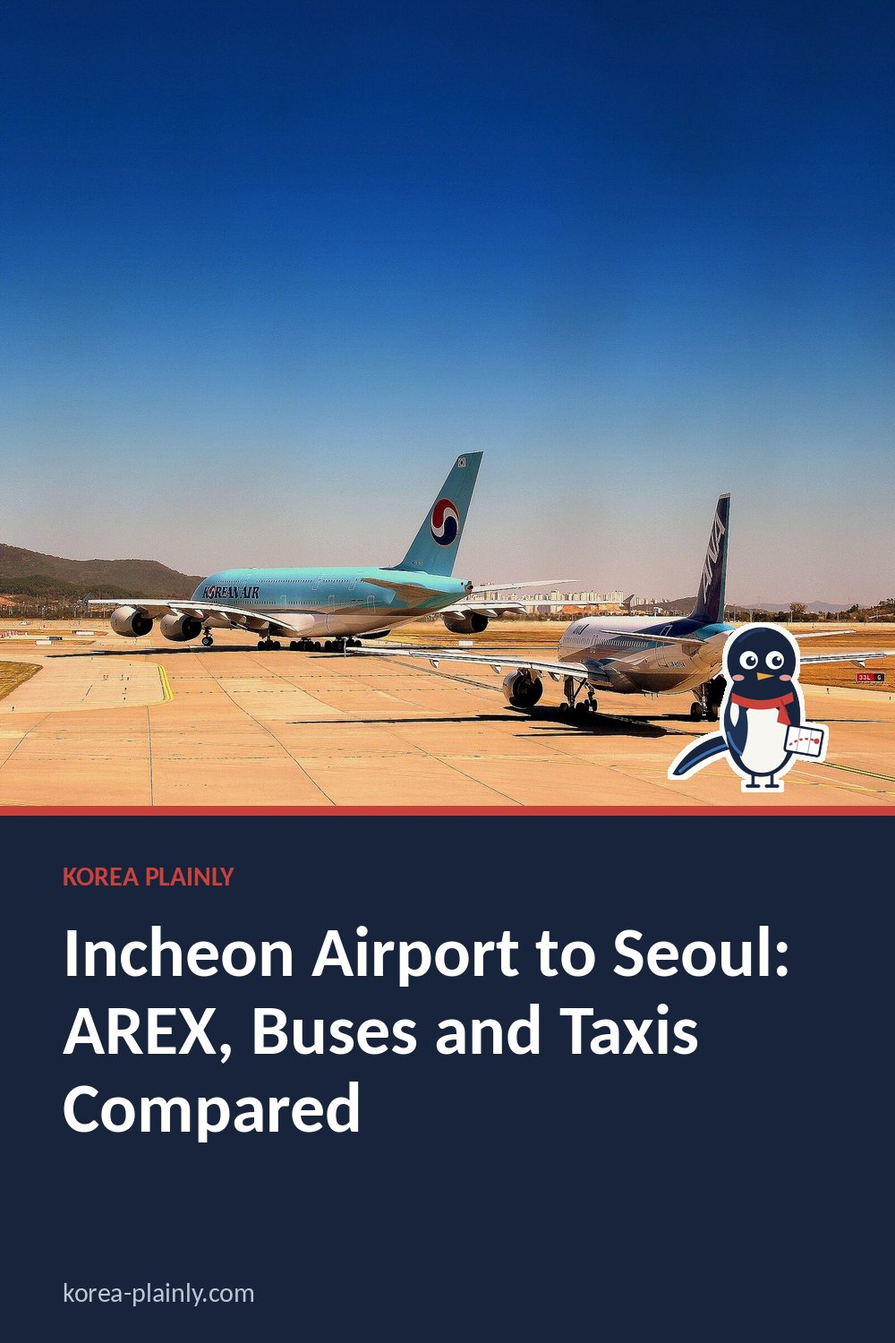
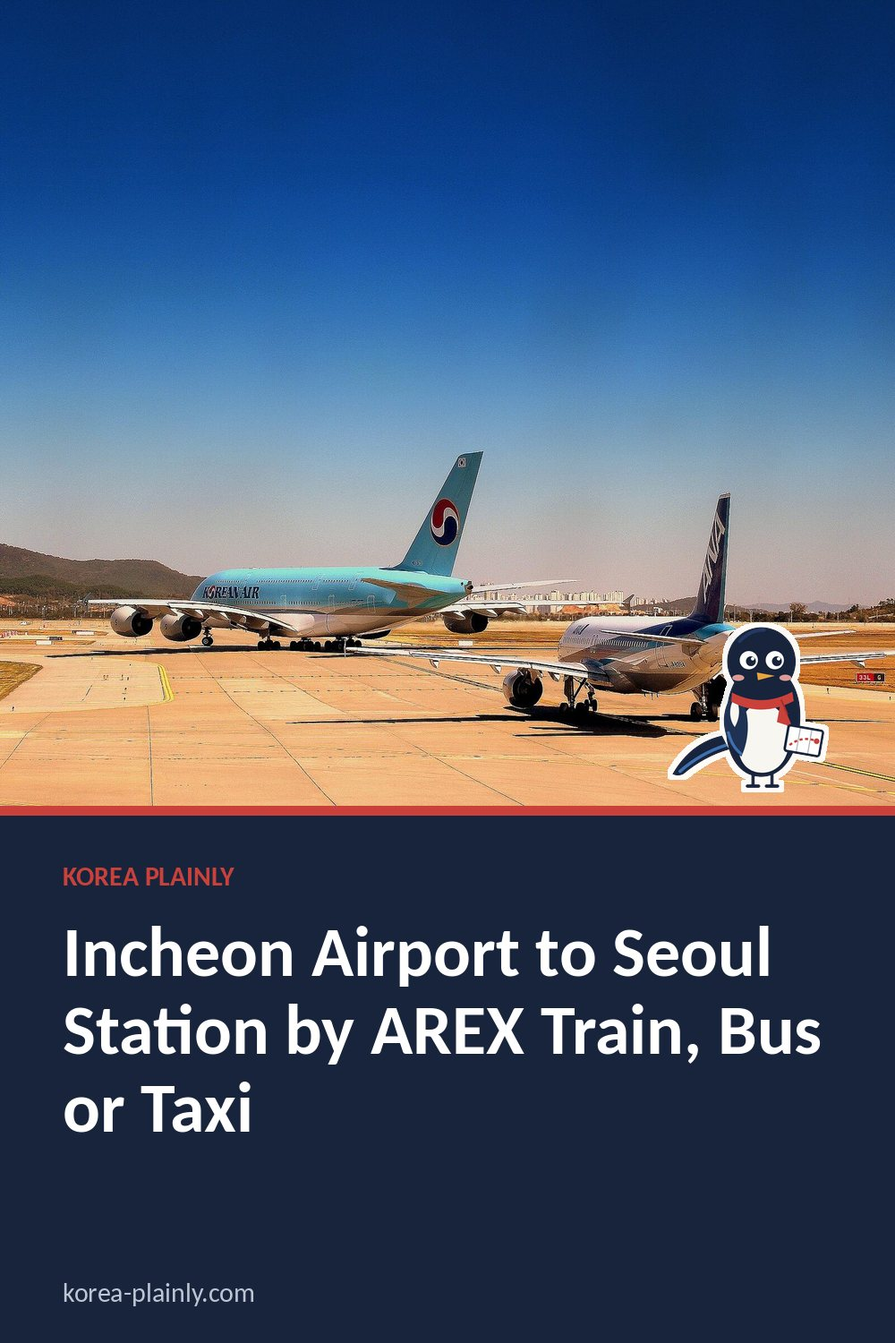
Incheon airport guide: retitle for 'incheon airport to seoul station' and rewrite with AREX Express vs All-Stop times, fares and stops; retry Busan cover photo; queue Discover Seoul Pass topic
Claude-Session: https://claude.ai/code/session_01RTe69ysQjvUUjkYMb41Tht

Changed region(s): [[0.062, 0.736, 0.775, 0.8587], [0.806, 0.7053, 0.93, 0.7973]]

diff --git a/incheon-airport-to-seoul.html b/incheon-airport-to-seoul.html
@@ -11,11 +11,11 @@
 >
 
 <link rel="stylesheet" href="style.css?v=20261015-1">
-<title>Incheon Airport to Seoul: AREX, Buses and Taxis Compared</title>
+<title>Incheon Airport to Seoul Station by AREX Train, Bus or Taxi</title>
 
 <meta
   name="description"
-  content="Compare the AREX train, airport limousine buses and taxis from Incheon Airport to Seoul, with practical tips for choosing the best option."
+  content="Incheon Airport to Seoul Station and your hotel: AREX Express vs All-Stop train, airport buses and taxis, with 2026 fares and journey times."
 >
 <link
   rel="canonical"
@@ -29,12 +29,12 @@
 
 <meta
   property="og:title"
-  content="Incheon Airport to Seoul: AREX, Buses and Taxis Compared"
+  content="Incheon Airport to Seoul Station by AREX Train, Bus or Taxi"
 >
 
 <meta
   property="og:description"
-  content="Compare the AREX train, airport limousine buses and taxis from Incheon Airport to Seoul, with practical tips for choosing the best option."
+  content="Incheon Airport to Seoul Station and your hotel: AREX Express vs All-Stop train, airport buses and taxis, with 2026 fares and journey times."
 >
 
 <meta
@@ -59,12 +59,12 @@
 
 <meta
   name="twitter:title"
-  content="Incheon Airport to Seoul: AREX, Buses and Taxis Compared"
+  content="Incheon Airport to Seoul Station by AREX Train, Bus or Taxi"
 >
 
 <meta
   name="twitter:description"
-  content="Compare the AREX train, airport limousine buses and taxis from Incheon Airport to Seoul, with practical tips for choosing the best option."
+  content="Incheon Airport to Seoul Station and your hotel: AREX Express vs All-Stop train, airport buses and taxis, with 2026 fares and journey times."
 >
 
 <meta
@@ -247,9 +247,9 @@ footer {
 <link rel="stylesheet" href="article.css?v=3">
 <link rel="stylesheet" href="https://fonts.googleapis.com/css2?family=DM+Sans:wght@400;500;600;700&family=Playfair+Display:ital,wght@0,600;1,600&display=swap">
 <link rel="icon" href="/favicon.svg" type="image/svg+xml">
-<script type="application/ld+json" id="kp-faq-ld">{"@context": "https://schema.org", "@type": "FAQPage", "mainEntity": [{"@type": "Question", "name": "Which option is best if I want to avoid traffic?", "acceptedAnswer": {"@type": "Answer", "text": "The AREX is a good choice if your destination is convenient to one of its stations, because the train does not get caught in road traffic. You may still need another train, bus, or taxi to reach your accommodation. Check the station locations and transfers before choosing."}}, {"@type": "Question", "name": "When might an airport bus be more convenient than the AREX?", "acceptedAnswer": {"@type": "Answer", "text": "A bus may suit you better if it stops near your hotel or neighborhood and you want to avoid changing trains with your luggage. Its journey uses the roads, however, so travel time can vary with traffic. Check the route and stop locations against your destination."}}, {"@type": "Question", "name": "Is taking a taxi from Incheon Airport a good idea?", "acceptedAnswer": {"@type": "Answer", "text": "A taxi can be convenient if you have several bags, are traveling with others, or need a direct ride to your accommodation. It costs more than public transport, and the trip can take longer when roads are busy. Confirm your destination before setting off."}}]}</script>
-<script type="application/ld+json" id="kp-article-ld">{"@context": "https://schema.org", "@type": "Article", "headline": "Incheon Airport to Seoul: AREX, Buses and Taxis Compared", "description": "Compare the AREX train, airport limousine buses and taxis from Incheon Airport to Seoul, with practical tips for choosing the best option.", "image": ["https://korea-plainly.com/photo-incheon-airport-to-seoul.jpg"], "datePublished": "2026-10-13", "dateModified": "2026-10-13", "author": {"@type": "Person", "name": "Jungsuk Kim", "url": "https://korea-plainly.com/about.html#author"}, "publisher": {"@type": "Organization", "name": "Korea Plainly", "url": "https://korea-plainly.com/"}, "mainEntityOfPage": "https://korea-plainly.com/incheon-airport-to-seoul.html"}</script>
-<script type="application/ld+json" id="kp-breadcrumb-ld">{"@context": "https://schema.org", "@type": "BreadcrumbList", "itemListElement": [{"@type": "ListItem", "position": 1, "name": "Home", "item": "https://korea-plainly.com/"}, {"@type": "ListItem", "position": 2, "name": "Guides", "item": "https://korea-plainly.com/guides.html"}, {"@type": "ListItem", "position": 3, "name": "Transport", "item": "https://korea-plainly.com/guides.html?category=transport"}, {"@type": "ListItem", "position": 4, "name": "Incheon Airport to Seoul: AREX, Buses and Taxis Compared", "item": "https://korea-plainly.com/incheon-airport-to-seoul.html"}]}</script>
+<script type="application/ld+json" id="kp-faq-ld">{"@context": "https://schema.org", "@type": "FAQPage", "mainEntity": [{"@type": "Question", "name": "How long does it take from Incheon Airport to Seoul Station?", "acceptedAnswer": {"@type": "Answer", "text": "About 43 minutes by AREX Express Train from Terminal 1 and about 51 minutes from Terminal 2. The All-Stop Train takes about an hour from Terminal 1, a little more from Terminal 2."}}, {"@type": "Question", "name": "Can I use a T-money card on the AREX train?", "acceptedAnswer": {"@type": "Answer", "text": "Yes on the All-Stop Train, where you tap in at the normal gates. The Express Train needs its own ticket from the machines or counter, although you can pay for it with cash or a card."}}, {"@type": "Question", "name": "Is the Express Train worth the extra cost?", "acceptedAnswer": {"@type": "Answer", "text": "It is if you are staying near Seoul Station or want a guaranteed seat for your luggage. If your hotel is near Hongdae, Gongdeok or Gimpo Airport stations, the All-Stop Train is cheaper and gets you there without a transfer."}}]}</script>
+<script type="application/ld+json" id="kp-article-ld">{"@context": "https://schema.org", "@type": "Article", "headline": "Incheon Airport to Seoul Station by AREX Train, Bus or Taxi", "description": "Incheon Airport to Seoul Station and your hotel: AREX Express vs All-Stop train, airport buses and taxis, with 2026 fares and journey times.", "image": ["https://korea-plainly.com/photo-incheon-airport-to-seoul.jpg"], "datePublished": "2026-10-13", "dateModified": "2026-10-24", "author": {"@type": "Person", "name": "Jungsuk Kim", "url": "https://korea-plainly.com/about.html#author"}, "publisher": {"@type": "Organization", "name": "Korea Plainly", "url": "https://korea-plainly.com/"}, "mainEntityOfPage": "https://korea-plainly.com/incheon-airport-to-seoul.html"}</script>
+<script type="application/ld+json" id="kp-breadcrumb-ld">{"@context": "https://schema.org", "@type": "BreadcrumbList", "itemListElement": [{"@type": "ListItem", "position": 1, "name": "Home", "item": "https://korea-plainly.com/"}, {"@type": "ListItem", "position": 2, "name": "Guides", "item": "https://korea-plainly.com/guides.html"}, {"@type": "ListItem", "position": 3, "name": "Transport", "item": "https://korea-plainly.com/guides.html?category=transport"}, {"@type": "ListItem", "position": 4, "name": "Incheon Airport to Seoul Station by AREX Train, Bus or Taxi", "item": "https://korea-plainly.com/incheon-airport-to-seoul.html"}]}</script>
 <meta property="article:published_time" content="2026-10-13">
 </head>
 
@@ -280,72 +280,77 @@ TRANSPORT · KOREA GUIDE
 </div>
 
 <h1>
-Incheon Airport to Seoul: AREX, Buses and Taxis Compared
+Incheon Airport to Seoul Station by AREX Train, Bus or Taxi
 </h1>
-<p class="kp-date" data-kp="date">By <a href="about.html#author">Jungsuk Kim</a>, Korea Plainly · Published <time datetime="2026-10-13">13 October 2026</time></p>
+<p class="kp-date" data-kp="date">By <a href="about.html#author">Jungsuk Kim</a>, Korea Plainly · Published <time datetime="2026-10-13">13 October 2026</time> · Updated <time datetime="2026-10-24">24 October 2026</time></p>
 
 <p class="dek">
-Compare the AREX train, airport limousine buses and taxis from Incheon Airport to Seoul, with practical tips for choosing the best option.
+Incheon Airport to Seoul Station and your hotel: AREX Express vs All-Stop train, airport buses and taxis, with 2026 fares and journey times.
 </p>
 
 <img
   class="cover"
   src="photo-incheon-airport-to-seoul.jpg"
-  alt="Travelers choosing between the AREX train, airport buses and taxis at Incheon Airport" srcset="img/photo-incheon-airport-to-seoul.e7391809.w480.webp 480w, img/photo-incheon-airport-to-seoul.e7391809.w800.webp 800w, img/photo-incheon-airport-to-seoul.e7391809.w1200.webp 1200w, photo-incheon-airport-to-seoul.jpg 1600w" sizes="(max-width: 860px) 100vw, 820px" fetchpriority="high"
+  alt="Planes on the apron at Incheon International Airport, west of Seoul" srcset="img/photo-incheon-airport-to-seoul.e7391809.w480.webp 480w, img/photo-incheon-airport-to-seoul.e7391809.w800.webp 800w, img/photo-incheon-airport-to-seoul.e7391809.w1200.webp 1200w, photo-incheon-airport-to-seoul.jpg 1600w" sizes="(max-width: 860px) 100vw, 820px" fetchpriority="high"
 >
 <p class="photo-credit" data-kp="photo-credit" style="font-size:12px;color:#777;margin:-18px 0 24px"><a href="https://commons.wikimedia.org/wiki/File:INCHEON_AIRPORT_SEOUL_SOUTH_KOREA_OCT_2012_(8161913884).jpg" target="_blank" rel="noopener nofollow" style="color:inherit">Photo: calflier001, CC BY-SA 2.0, via Wikimedia Commons</a></p>
 
 <article>
 
-<p>Incheon International Airport is west of Seoul, and the best way into the city depends on where you are staying, how much luggage you have and whether you prefer a direct ride or a predictable journey. The main choices are the AREX airport train, airport limousine buses and taxis. Check your hotel’s location before you travel: Seoul Station is useful for some visitors, but it is not the most convenient arrival point for every neighborhood.</p>
-<nav class="kp-toc" data-kp="toc" aria-label="On this page"><p>On this page</p><ol><li><a href="#arex-best-for-a-predictable-trip">AREX: best for a predictable trip</a></li><li><a href="#airport-limousine-bus-useful-for-hotels-and-luggage">Airport limousine bus: useful for hotels and luggage</a></li><li><a href="#taxi-convenient-but-traffic-and-cost-matter">Taxi: convenient, but traffic and cost matter</a></li><li><a href="#which-option-should-you-choose">Which option should you choose?</a></li><li><a href="#before-you-leave-the-airport">Before you leave the airport</a></li><li><a href="#frequently-asked-questions">Frequently Asked Questions</a></li></ol></nav>
-<h2 id="arex-best-for-a-predictable-trip">AREX: best for a predictable trip</h2>
-<p>AREX, the Airport Railroad Express, connects Incheon Airport with Seoul Station. It offers two types of service: the Express Train and the All-Stop Train. Both serve Terminal 1 and Terminal 2, but they differ in where they stop and how you buy a ticket.</p>
-<h3>Express Train</h3>
-<p>The Express Train runs directly between the airport terminals and Seoul Station without stopping at intermediate stations. It can be a good choice if you are staying near Seoul Station or can easily transfer there to another train. You need a separate Express Train ticket; do not assume that a regular transit card covers it. Check the departure information and ticket options at the station, especially if you have a tight connection.</p>
-<h3>All-Stop Train</h3>
-<p>The All-Stop Train makes more stops, including stations such as Hongik University and Gongdeok, as well as Seoul Station. It may be more convenient than the Express Train if one of these stations is closer to your hotel. The journey takes longer than the non-stop service, but you may avoid a transfer after reaching Seoul. A Korean transit card can generally be used for the All-Stop service; check the station’s current payment options if you plan to use a bank card or mobile wallet.</p>
-<p>At the airport, follow signs for the Airport Railroad and check that you are heading to the correct terminal station. Leave extra time to walk through the airport and reach the platform, particularly if you are arriving with checked bags. Trains are not door-to-door, so think about the final walk or transfer from your Seoul station.</p>
-<h2 id="airport-limousine-bus-useful-for-hotels-and-luggage">Airport limousine bus: useful for hotels and luggage</h2>
-<p>Airport buses serve parts of Seoul and can stop near hotels, major roads or transport hubs. If a route has a stop close to your accommodation, the bus may save you from carrying luggage through a station or changing trains. Some buses have space for larger bags, but follow the staff’s instructions when loading them.</p>
-<p>Routes, stops and departure points vary. Before boarding, check the bus number and destination against your hotel address rather than choosing a bus simply because it is heading toward central Seoul. Airport information desks, bus ticket counters or ticket machines can help you find the right service. Payment methods can also vary by route, so check before boarding instead of relying on a transit card or cash being accepted.</p>
-<p>A bus ride is affected by road traffic, so its arrival time can be less predictable than the train’s. This matters if you have a timed reservation or need to catch another service. On the other hand, a bus can be a comfortable option when your hotel is near a stop and you want to avoid changing trains. Confirm where the bus will drop you off and how far you will need to walk.</p>
-<h2 id="taxi-convenient-but-traffic-and-cost-matter">Taxi: convenient, but traffic and cost matter</h2>
-<p>A taxi takes you directly from the airport to your destination and can be especially helpful with several bags, children or a hotel far from a rail station. Use the official taxi stand outside the terminal and join the marked queue. Avoid people inside the airport who approach you offering an unofficial ride.</p>
-<p>Taxis use meters, and the total fare can be affected by distance, traffic, tolls and applicable surcharges. The ride may be much slower during busy road periods. A taxi is usually less economical than public transport for one person, but splitting the fare with other travelers may make it a practical choice. If you need extra luggage space or are traveling in a group, ask about a larger vehicle at the official stand.</p>
-<p>Do not assume the driver will speak English. Save your hotel name and address in Korean, or show the destination on a map. If you use a taxi app, check that you can register and pay with your available account and payment method before relying on it. Keep the hotel address accessible offline in case your mobile connection is delayed.</p>
-<h2 id="which-option-should-you-choose">Which option should you choose?</h2>
+<p>Most first-time visitors land at Incheon International Airport, about 50 kilometres west of central Seoul on Yeongjong Island. Getting from Incheon Airport to Seoul Station is the easiest trip to plan, because the AREX airport train runs straight there, but Seoul Station is only the right stop if your hotel is nearby or on Line 1 or Line 4. Here is how to pick the option that leaves you closest to your bed with the fewest stairs and transfers.</p>
+
+<nav class="kp-toc" data-kp="toc" aria-label="On this page"><p>On this page</p><ol><li><a href="#the-quick-answer">The quick answer</a></li><li><a href="#arex-express-train-non-stop-to-seoul-station">AREX Express Train: non-stop to Seoul Station</a></li><li><a href="#arex-all-stop-train-cheaper-and-more-useful-than-it-sounds">AREX All-Stop Train: cheaper and more useful than it sounds</a></li><li><a href="#airport-limousine-buses-door-to-hotel-without-the-stairs">Airport limousine buses: door to hotel without the stairs</a></li><li><a href="#taxi-simplest-but-the-most-expensive">Taxi: simplest, but the most expensive</a></li><li><a href="#arriving-late-at-night">Arriving late at night</a></li><li><a href="#going-back-check-in-at-seoul-station">Going back: check in at Seoul Station</a></li><li><a href="#faq">FAQ</a></li></ol></nav>
+<h2 id="the-quick-answer">The quick answer</h2>
 <ul>
-<li><strong>Choose the Express Train</strong> if Seoul Station is a convenient destination and you want a direct rail trip.</li>
-<li><strong>Choose the All-Stop Train</strong> if a station along its route is closer to your accommodation or you want to connect with the city’s rail network.</li>
-<li><strong>Choose an airport bus</strong> if a confirmed route stops near your hotel and you prefer fewer transfers with your luggage.</li>
-<li><strong>Choose a taxi</strong> for a door-to-door trip, while allowing for road traffic and a higher fare.</li>
+<li><strong>Staying near Seoul Station, or flying home with Korean Air and similar airlines:</strong> the AREX Express Train.</li>
+<li><strong>Staying in Hongdae, Gongdeok, Yeouido or anywhere on the subway:</strong> the AREX All-Stop Train with a transit card.</li>
+<li><strong>Staying in Myeongdong, Gangnam, Jamsil or near a big hotel:</strong> check for an airport limousine bus that stops at the door.</li>
+<li><strong>Arriving late, in a group or with lots of luggage:</strong> a taxi from the official rank.</li>
 </ul>
-<h2 id="before-you-leave-the-airport">Before you leave the airport</h2>
-<p>Look up your hotel’s nearest station or bus stop before landing, and save its address in both English and Korean if possible. Check whether your route departs from Terminal 1 or Terminal 2, and leave time to reach the right station or bus stop. If you are arriving late, tired or with heavy bags, convenience may matter more than the fastest journey. For many visitors, the best option is simply the one that gets them closest to their actual accommodation with the fewest difficult transfers.</p>
+
+<h2 id="arex-express-train-non-stop-to-seoul-station">AREX Express Train: non-stop to Seoul Station</h2>
+<p>The Express Train runs without stops between the airport and Seoul Station. In 2026 the journey takes about 43 minutes from Terminal 1 and about 51 minutes from Terminal 2, with departures roughly every 30 to 40 minutes. Every passenger has an assigned seat, there is luggage space at the end of each carriage, and the adult fare at the station is about 11,000 won (2026).</p>
+<p>Buy the ticket from the AREX machines or the counter in the Transportation Centre, which you reach by following the purple-and-blue "Train" signs from arrivals. The machines take cash and most foreign cards. The ticket is a QR code or a paper ticket, and it goes through its own Express gates: you cannot simply tap a T-money card here.</p>
+<p>Seoul Station's AREX platforms are deep underground. Allow around ten minutes, with long escalators, to reach Line 1, Line 4 or the KTX concourse.</p>
+
+<h2 id="arex-all-stop-train-cheaper-and-more-useful-than-it-sounds">AREX All-Stop Train: cheaper and more useful than it sounds</h2>
+<p>The All-Stop (commuter) Train runs every few minutes and takes about an hour from Terminal 1 to Seoul Station, a little longer from Terminal 2. It costs roughly 4,000 to 5,000 won (2026) depending on the terminal, paid by tapping a T-money or similar transit card at the ordinary gates. You can buy and top up a card at the convenience store in arrivals; our <a href="korea-transit-card-guide.html">transit card guide</a> explains how.</p>
+<p>The useful part is where it stops. Along with Seoul Station, it calls at:</p>
+<ul>
+<li><strong>Gimpo Airport</strong> for Line 5 and Line 9 (fast trains to Yeouido and Gangnam).</li>
+<li><strong>Digital Media City</strong> for Line 6 and the Gyeongui-Jungang Line.</li>
+<li><strong>Hongik University</strong> for Hongdae and Line 2.</li>
+<li><strong>Gongdeok</strong> for Line 5 and Line 6, handy for Mapo and Yeouido.</li>
+</ul>
+<p>If your hotel is in Hongdae, the All-Stop Train is often faster door to door than the Express, because you skip the backtrack from Seoul Station. It fills with commuters near Seoul at rush hour, so keep suitcases out of the doorway. For changing lines after you arrive, see our <a href="seoul-subway-for-foreigners.html">Seoul subway guide</a>.</p>
+
+<h2 id="airport-limousine-buses-door-to-hotel-without-the-stairs">Airport limousine buses: door to hotel without the stairs</h2>
+<p>Airport buses are the quiet favourite of locals with heavy bags. The driver loads your suitcase into the hold, you sit in a reclining seat, and many routes stop outside large hotels in Myeongdong, Jongno, Gangnam, Jamsil and other districts that are awkward to reach by train from the airport. Buses to Seoul mostly use four-digit route numbers starting with 6.</p>
+<p>Ticket counters and machines are in the arrivals hall, and departures leave from numbered stops just outside on the same floor. Show your hotel name at the counter and ask which bus to take. The fare is more than the All-Stop Train and far less than a taxi, and some routes take a transit card or bank card on board, but check before you queue.</p>
+<p>The weakness is traffic. Allow 70 to 90 minutes to central Seoul, more on Friday evenings and holiday weekends. If you have a timed booking, the train is safer.</p>
+
+<h2 id="taxi-simplest-but-the-most-expensive">Taxi: simplest, but the most expensive</h2>
+<p>Use the marked taxi rank outside arrivals and ignore anyone inside the building offering a ride. A regular metered taxi to central Seoul typically comes to roughly 60,000 to 80,000 won (2026) including the expressway toll, more late at night when a surcharge applies. Split four ways, a taxi can cost little more per person than the Express Train.</p>
+<p>Have your hotel address in Korean ready to show the driver,. Taxi apps such as Kakao T also work at the airport if you set them up before the trip; see our <a href="kakao-t-taxi-korea.html">guide to taxi apps in Korea</a>.</p>
+
+<h2 id="arriving-late-at-night">Arriving late at night</h2>
+<p>The last trains leave the airport towards Seoul at around 11pm to midnight, the Express a little earlier than the All-Stop, and both start again around 5am. If your flight lands after about 10:30pm, look up the exact last departure for your terminal on the AREX website before you fly. A few late-night buses run to Seoul after the trains stop, but they are infrequent; a taxi is usually the simplest answer.</p>
+
+<h2 id="going-back-check-in-at-seoul-station">Going back: check in at Seoul Station</h2>
+<p>On the way home, Seoul Station's City Airport Terminal lets passengers on participating airlines (Korean Air among them) check in, drop their bags and clear immigration in the city, then ride the Express Train with only hand luggage. You need a same-day Express ticket, and check-in closes around three hours before departure. Check with your airline first.</p>
 
 <div class="tip">
-
-<strong>
-Bottom line:
-</strong>
-
-A little preparation can make your
-time in Korea much easier.
-Keep this guide handy and enjoy
-exploring at your own pace.
-
+<strong>Before you land:</strong> save your hotel's nearest station and address in Korean, load a transit card at the airport, and check which terminal you arrive at. It is printed on your ticket, and a free shuttle links the two. Our <a href="arriving-in-korea-checklist.html">arrival checklist</a> covers the rest.
 </div>
 
-
 <section class="faq">
-<h2 id="frequently-asked-questions">Frequently Asked Questions</h2>
-<h3>Which option is best if I want to avoid traffic?</h3>
-<p>The AREX is a good choice if your destination is convenient to one of its stations, because the train does not get caught in road traffic. You may still need another train, bus, or taxi to reach your accommodation. Check the station locations and transfers before choosing.</p>
-<h3>When might an airport bus be more convenient than the AREX?</h3>
-<p>A bus may suit you better if it stops near your hotel or neighborhood and you want to avoid changing trains with your luggage. Its journey uses the roads, however, so travel time can vary with traffic. Check the route and stop locations against your destination.</p>
-<h3>Is taking a taxi from Incheon Airport a good idea?</h3>
-<p>A taxi can be convenient if you have several bags, are traveling with others, or need a direct ride to your accommodation. It costs more than public transport, and the trip can take longer when roads are busy. Confirm your destination before setting off.</p>
+<h2 id="faq">FAQ</h2>
+<h3>How long does it take from Incheon Airport to Seoul Station?</h3>
+<p>About 43 minutes by AREX Express Train from Terminal 1 and about 51 minutes from Terminal 2. The All-Stop Train takes about an hour from Terminal 1, a little more from Terminal 2.</p>
+<h3>Can I use a T-money card on the AREX train?</h3>
+<p>Yes on the All-Stop Train, where you tap in at the normal gates. The Express Train needs its own ticket from the machines or counter, although you can pay for it with cash or a card.</p>
+<h3>Is the Express Train worth the extra cost?</h3>
+<p>It is if you are staying near Seoul Station or want a guaranteed seat for your luggage. If your hotel is near Hongdae, Gongdeok or Gimpo Airport stations, the All-Stop Train is cheaper and gets you there without a transfer.</p>
 </section>
 
 <!-- kp-kkachi -->

diff --git a/things-to-do-in-busan.html b/things-to-do-in-busan.html
@@ -245,12 +245,12 @@ footer {
 <script async src="https://pagead2.googlesyndication.com/pagead/js/adsbygoogle.js?client=ca-pub-7379462117232471" crossorigin="anonymous"></script>
 <style>.kp-date{font-size:13px;color:#62635f;margin:-6px 0 22px}</style>
 <script type="application/ld+json" id="kp-faq-ld">{"@context": "https://schema.org", "@type": "FAQPage", "mainEntity": [{"@type": "Question", "name": "Which area of Busan is best to stay in for a first visit?", "acceptedAnswer": {"@type": "Answer", "text": "It depends on what you want nearby. Haeundae and Gwangalli suit travelers drawn to the coast, while Seomyeon is a practical base for exploring different parts of the city. If markets and older downtown sights are your priority, consider staying near Nampo. Check transport connections before choosing."}}, {"@type": "Question", "name": "How should I plan my sightseeing across Busan’s different areas?", "acceptedAnswer": {"@type": "Answer", "text": "Group nearby sights together instead of crossing the city repeatedly in one day. For example, focus on one coastal area or one downtown area at a time, and leave room for meals and breaks. Busan is spread out, so a shorter list of places can make each day more relaxed."}}, {"@type": "Question", "name": "What is the easiest way to get around Busan?", "acceptedAnswer": {"@type": "Answer", "text": "Public transportation is useful for getting between many of Busan’s neighborhoods, though some trips may take longer than the map suggests. Check your route before setting out and allow time for transfers or walking. Taxis can be convenient for a direct trip, especially when public transport is less practical."}}]}</script>
-<script type="application/ld+json" id="kp-article-ld">{"@context": "https://schema.org", "@type": "Article", "headline": "Things to Do in Busan, South Korea: A First-Timer's Guide by Area", "description": "Plan your first Busan trip by neighborhood, with practical tips for beaches, markets, hillside villages, food, and getting around.", "image": ["https://korea-plainly.com/seoul.jpg"], "datePublished": "2026-10-24", "dateModified": "2026-10-24", "author": {"@type": "Person", "name": "Jungsuk Kim", "url": "https://korea-plainly.com/about.html#author"}, "publisher": {"@type": "Organization", "name": "Korea Plainly", "url": "https://korea-plainly.com/"}, "mainEntityOfPage": "https://korea-plainly.com/things-to-do-in-busan.html"}</script>
-<script type="application/ld+json" id="kp-breadcrumb-ld">{"@context": "https://schema.org", "@type": "BreadcrumbList", "itemListElement": [{"@type": "ListItem", "position": 1, "name": "Home", "item": "https://korea-plainly.com/"}, {"@type": "ListItem", "position": 2, "name": "Guides", "item": "https://korea-plainly.com/guides.html"}, {"@type": "ListItem", "position": 3, "name": "Travel Basics", "item": "https://korea-plainly.com/guides.html?category=travel"}, {"@type": "ListItem", "position": 4, "name": "Things to Do in Busan, South Korea: A First-Timer's Guide by Area", "item": "https://korea-plainly.com/things-to-do-in-busan.html"}]}</script>
-<meta property="article:published_time" content="2026-10-24">
 <link rel="stylesheet" href="article.css?v=3">
 <link rel="stylesheet" href="https://fonts.googleapis.com/css2?family=DM+Sans:wght@400;500;600;700&family=Playfair+Display:ital,wght@0,600;1,600&display=swap">
 <link rel="icon" href="/favicon.svg" type="image/svg+xml">
+<script type="application/ld+json" id="kp-article-ld">{"@context": "https://schema.org", "@type": "Article", "headline": "Things to Do in Busan, South Korea: A First-Timer's Guide by Area", "description": "Plan your first Busan trip by neighborhood, with practical tips for beaches, markets, hillside villages, food, and getting around.", "image": ["https://korea-plainly.com/seoul.jpg"], "datePublished": "2026-10-24", "dateModified": "2026-10-24", "author": {"@type": "Person", "name": "Jungsuk Kim", "url": "https://korea-plainly.com/about.html#author"}, "publisher": {"@type": "Organization", "name": "Korea Plainly", "url": "https://korea-plainly.com/"}, "mainEntityOfPage": "https://korea-plainly.com/things-to-do-in-busan.html"}</script>
+<script type="application/ld+json" id="kp-breadcrumb-ld">{"@context": "https://schema.org", "@type": "BreadcrumbList", "itemListElement": [{"@type": "ListItem", "position": 1, "name": "Home", "item": "https://korea-plainly.com/"}, {"@type": "ListItem", "position": 2, "name": "Guides", "item": "https://korea-plainly.com/guides.html"}, {"@type": "ListItem", "position": 3, "name": "Travel Basics", "item": "https://korea-plainly.com/guides.html?category=travel"}, {"@type": "ListItem", "position": 4, "name": "Things to Do in Busan, South Korea: A First-Timer's Guide by Area", "item": "https://korea-plainly.com/things-to-do-in-busan.html"}]}</script>
+<meta property="article:published_time" content="2026-10-24">
 </head>
 
 <body class="kp-article">

diff --git a/korea-festivals.html b/korea-festivals.html
@@ -248,7 +248,7 @@ footer {
 <link rel="stylesheet" href="https://fonts.googleapis.com/css2?family=DM+Sans:wght@400;500;600;700&family=Playfair+Display:ital,wght@0,600;1,600&display=swap">
 <link rel="icon" href="/favicon.svg" type="image/svg+xml">
 <script type="application/ld+json" id="kp-faq-ld">{"@context": "https://schema.org", "@type": "FAQPage", "mainEntity": [{"@type": "Question", "name": "Where does this festival list come from?", "acceptedAnswer": {"@type": "Answer", "text": "From the Korea Tourism Organization's official tourism data, which we check every week. Always confirm dates on the festival's own page before you travel."}}, {"@type": "Question", "name": "When is the best time for festivals in Korea?", "acceptedAnswer": {"@type": "Answer", "text": "Autumn has the most festivals, followed by spring. Winter is the season for lights, ice fishing and snow festivals."}}, {"@type": "Question", "name": "Are Korean festivals free?", "acceptedAnswer": {"@type": "Answer", "text": "Many are free to enter, especially street, lantern and food festivals. Some activities, such as ice fishing or paid seats at fireworks shows, cost extra."}}]}</script>
-<script type="application/ld+json" id="kp-article-ld">{"@context": "https://schema.org", "@type": "Article", "headline": "Festivals in Korea: What's On This Month and Coming Up", "description": "A festival calendar for Korea, updated every week: what is on now and coming up across the country, from food and lantern festivals to fireworks, flowers and ice fishing.", "image": ["https://korea-plainly.com/photo-korea-festivals.jpg"], "datePublished": "2026-10-15", "dateModified": "2026-10-23", "author": {"@type": "Person", "name": "Jungsuk Kim", "url": "https://korea-plainly.com/about.html#author"}, "publisher": {"@type": "Organization", "name": "Korea Plainly", "url": "https://korea-plainly.com/"}, "mainEntityOfPage": "https://korea-plainly.com/korea-festivals.html"}</script>
+<script type="application/ld+json" id="kp-article-ld">{"@context": "https://schema.org", "@type": "Article", "headline": "Festivals in Korea: What's On This Month and Coming Up", "description": "A festival calendar for Korea, updated every week: what is on now and coming up across the country, from food and lantern festivals to fireworks, flowers and ice fishing.", "image": ["https://korea-plainly.com/photo-korea-festivals.jpg"], "datePublished": "2026-10-15", "dateModified": "2026-10-24", "author": {"@type": "Person", "name": "Jungsuk Kim", "url": "https://korea-plainly.com/about.html#author"}, "publisher": {"@type": "Organization", "name": "Korea Plainly", "url": "https://korea-plainly.com/"}, "mainEntityOfPage": "https://korea-plainly.com/korea-festivals.html"}</script>
 <script type="application/ld+json" id="kp-breadcrumb-ld">{"@context": "https://schema.org", "@type": "BreadcrumbList", "itemListElement": [{"@type": "ListItem", "position": 1, "name": "Home", "item": "https://korea-plainly.com/"}, {"@type": "ListItem", "position": 2, "name": "Guides", "item": "https://korea-plainly.com/guides.html"}, {"@type": "ListItem", "position": 3, "name": "Travel Basics", "item": "https://korea-plainly.com/guides.html?category=travel"}, {"@type": "ListItem", "position": 4, "name": "Festivals in Korea: What's On This Month and Coming Up", "item": "https://korea-plainly.com/korea-festivals.html"}]}</script>
 <meta property="article:published_time" content="2026-10-15">
 </head>
@@ -282,7 +282,7 @@ TRAVEL BASICS · WHAT'S ON
 <h1>
 Festivals in Korea: What's On This Month and Coming Up
 </h1>
-<p class="kp-date" data-kp="date">By <a href="about.html#author">Jungsuk Kim</a>, Korea Plainly · Published <time datetime="2026-10-15">15 October 2026</time> · Updated <time datetime="2026-10-23">23 October 2026</time></p>
+<p class="kp-date" data-kp="date">By <a href="about.html#author">Jungsuk Kim</a>, Korea Plainly · Published <time datetime="2026-10-15">15 October 2026</time> · Updated <time datetime="2026-10-24">24 October 2026</time></p>
 
 <p class="dek">
 A festival calendar for Korea, updated every week: what is on now and coming up across the country, from food and lantern festivals to fireworks, flowers and ice fishing.

diff --git a/guides.html b/guides.html
@@ -492,11 +492,11 @@ TRANSPORT · NEW
 </small>
 
 <h2>
-Incheon Airport to Seoul: AREX, Buses and Taxis Compared
+Incheon Airport to Seoul Station by AREX Train, Bus or Taxi
 </h2>
 
 <p>
-Compare the AREX train, airport limousine buses and taxis from Incheon Airport to Seoul, with practical tips for choosing the best option.
+Incheon Airport to Seoul Station and your hotel: AREX Express vs All-Stop train, airport buses and taxis, with 2026 fares and journey times.
 </p>
 
 <span class="guide-arrow">
